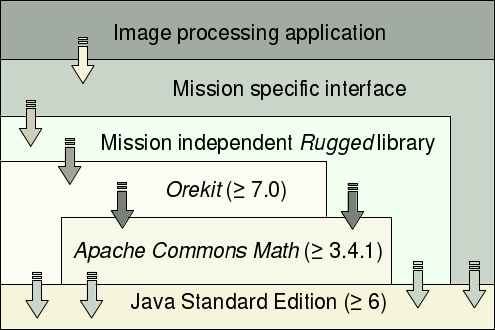
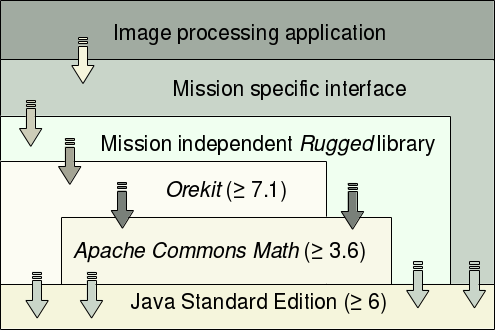
Updated project build and doc after Orekit 7.1 release.

diff --git a/src/site/markdown/faq.md b/src/site/markdown/faq.md
@@ -17,10 +17,8 @@ References
 
 ### Has Rugged already been used?
 
-Almost, as it is used in a project under development.
-
-The first operational use of Rugged will be Sentinel 2 ESA mission.
-Rugged is used in the Image Processing Facility.
+Yes. Rugged is used operationally in the Image Processing Facility
+of the Sentinel 2 ESA mission, which was launched in June 2015.
 
 ### Is Rugged validated?
 
@@ -73,17 +71,13 @@ often seen very early and is the first one unsuspecting users experience. It oft
 to configure Orekit to load data.
 
 Configuring data loading is explained in the configuration page For a start, the simplest configuration
-is to download the orekit-data.zip file from the download page and to either set the "orekit.data.path" Java
-property to this file or to manually configure the DataProvidersManager to use it. This example archive file
-contains the required UTC-TAI history file among others. Configuring Orekit to use this archive file can be done
-by keeping the file as a zip archive and pointing to this archive, or by unzipping it and pointing to the unzipped folder.
+is to download the orekit-data.zip file from the Orekit project download page, to unzip it anywhere you
+want, note the path of the orekit-data folder that will be created and add the following lines at the start
+of your program:
 
-Here is an example using the file in zip format:
+    File orekitData = new File("/path/to/the/folder/orekit-data");
+    DataProvidersManager manager = DataProvidersManager.getInstance();
+    manager.addProvider(new DirectoryCrawler(orekitData));
 
-    DataProvidersManager.getInstance().addProvider(new ZipJarCrawler(new File("/path/to/the/zip/file/orekit-data.zip")));
-
-Here is an example using the folder resulting from expanding the archive:
-
-    DataProvidersManager.getInstance().addProvider(new DirectoryCrawler(new File("/path/to/the/folder/orekit-data")));
-
-Using a folder allows one to change the data in it, e.g., adding new EOP files as they are published by IERS.
+Using a folder allows one to change the data in it after the initial download, e.g., adding new EOP files as they
+are published by IERS.

diff --git a/src/site/markdown/design/overview.md b/src/site/markdown/design/overview.md
@@ -67,7 +67,7 @@ The following table sorts out the various topics between the various layers.
 |      IERS data correction        |          Orekit         |All frame transforms support the full set of IERS Earth Orientation Parameters corrections, including of course the large DUT1 time correction, but also the smaller corrections to older IAU-76/80 or newer IAU-2000/2006 precession nutation models as well as the polar wander. The frames level accuracy is at sub-millimeter level
 |     Grid-post elevation model    |          Rugged         |Only raster elevation models are supported
 |Triangulated Irregular Network elevation model | Not supported |If vector elevation models are needed, they must be converted to raster form in order to be used
-|         Geoid computation        |     Not in version 1    |The first version only supports Digital Elevation Models computed with respect to a reference ellipsoid. If needed, this feature could be added after version 1, either at Rugged or Orekit level, using Orekit gravity fields
+|         Geoid computation        |     Orekit   |Rugged expects the Digital Elevation Models to be provided with respect to a reference ellipsoid. Orekit can be used to convert a geoid-based DEM to an ellipsoid-based DEM, directly from any gravity field
 |  Time-dependent deformations     |     Interface/Rugged    |Simple line-of-sight models (typically polynomial) can be used
 |           Calibration            |Image processing or interface|The calibration phase remains at the mission-specific caller level (pixels geometry, clock synchronization …), the caller is required to provide the already calibrated line of sights
 |         DEM file parsing         |         Interface       |The elevation models are dedicated to the mission and there are several formats (DTED, GeoTIFF, raw data …).Rugged only deals with raw elevation on small latitude/longitude cells
